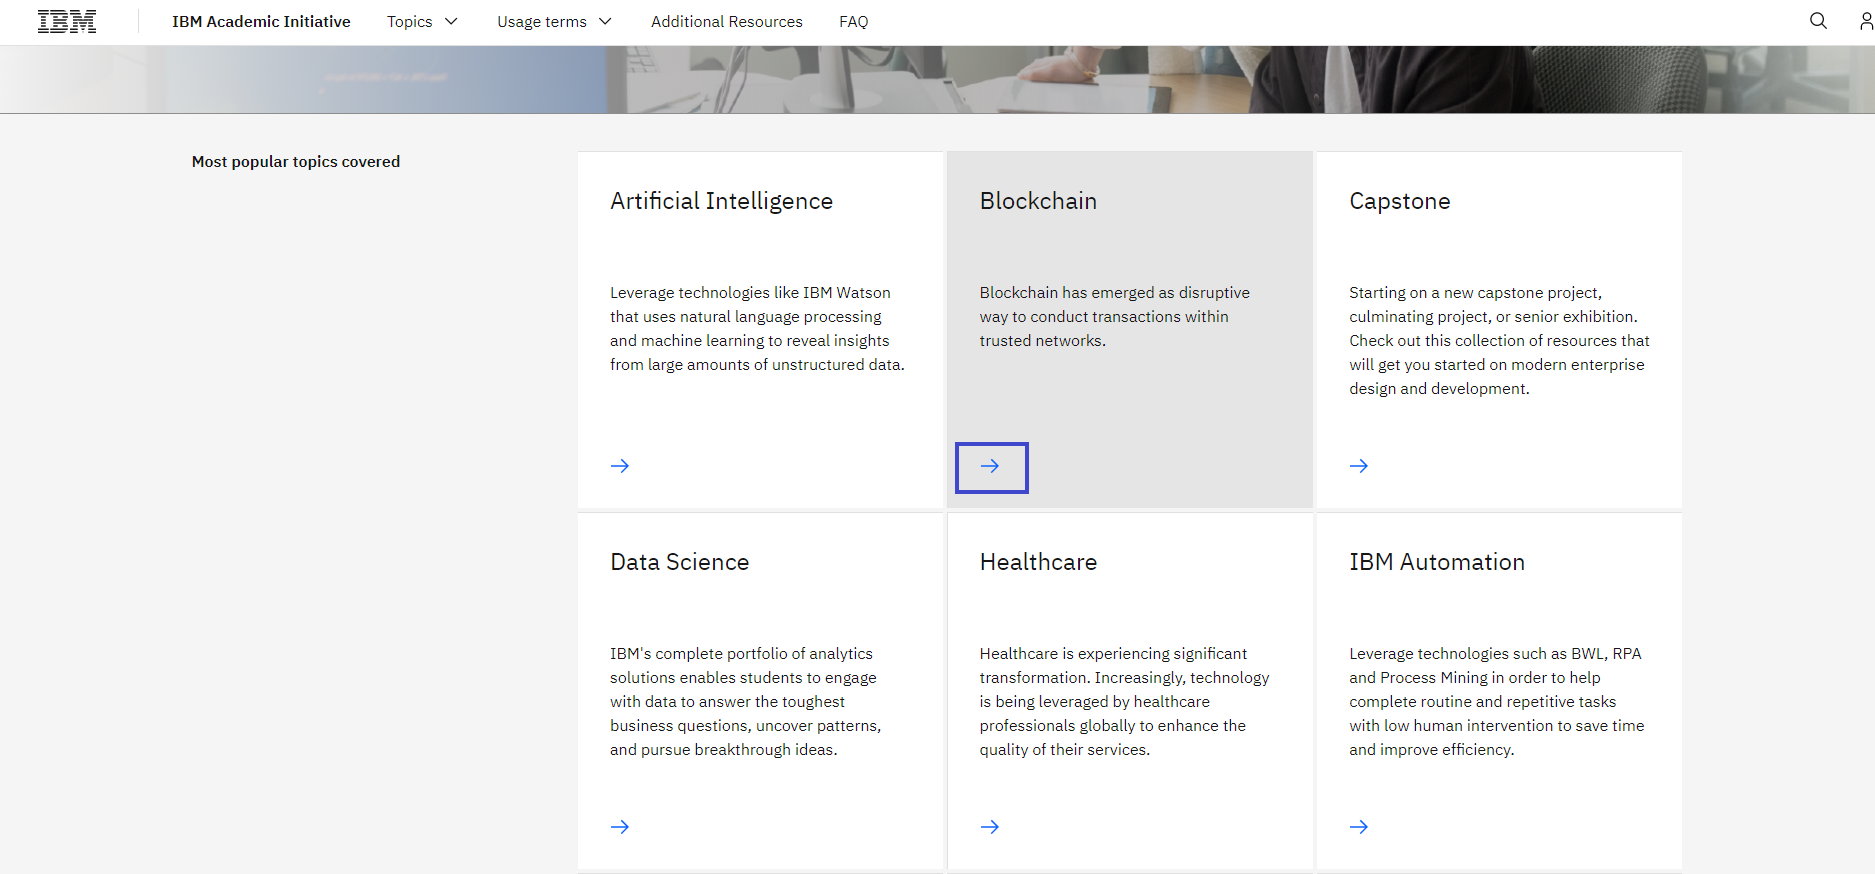
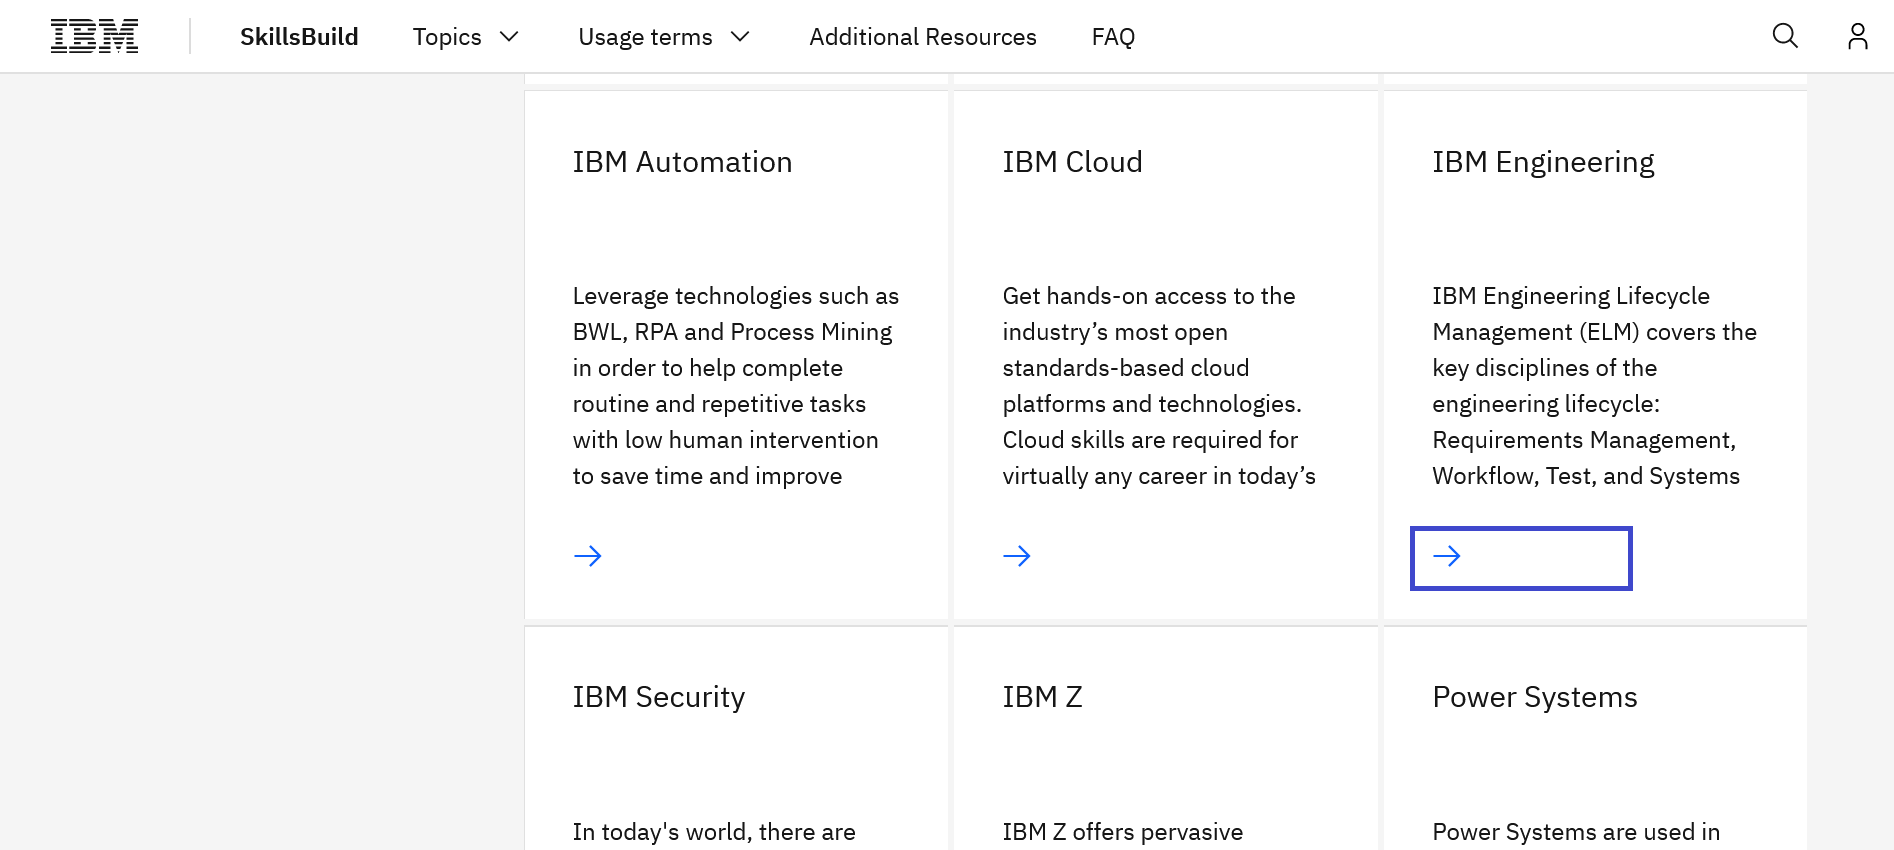
feat: update images

diff --git a/academic-initiative/how-to/How-to-explore-the-IBM-Academic-Initiative-Software-Catalog/readme.md b/academic-initiative/how-to/How-to-explore-the-IBM-Academic-Initiative-Software-Catalog/readme.md
@@ -22,7 +22,7 @@ The purpose of this guide is to walk you through the necessary steps required to
 ![Step 3](images/step3.png)
 
 ## Step 4: Visit any of the topic pages.
-Example - Topics menu > See All > Blockchain
+Example - Topics menu > See All > IBM Engineering
 <br />
 
 ![Step 4](images/step4.png)
